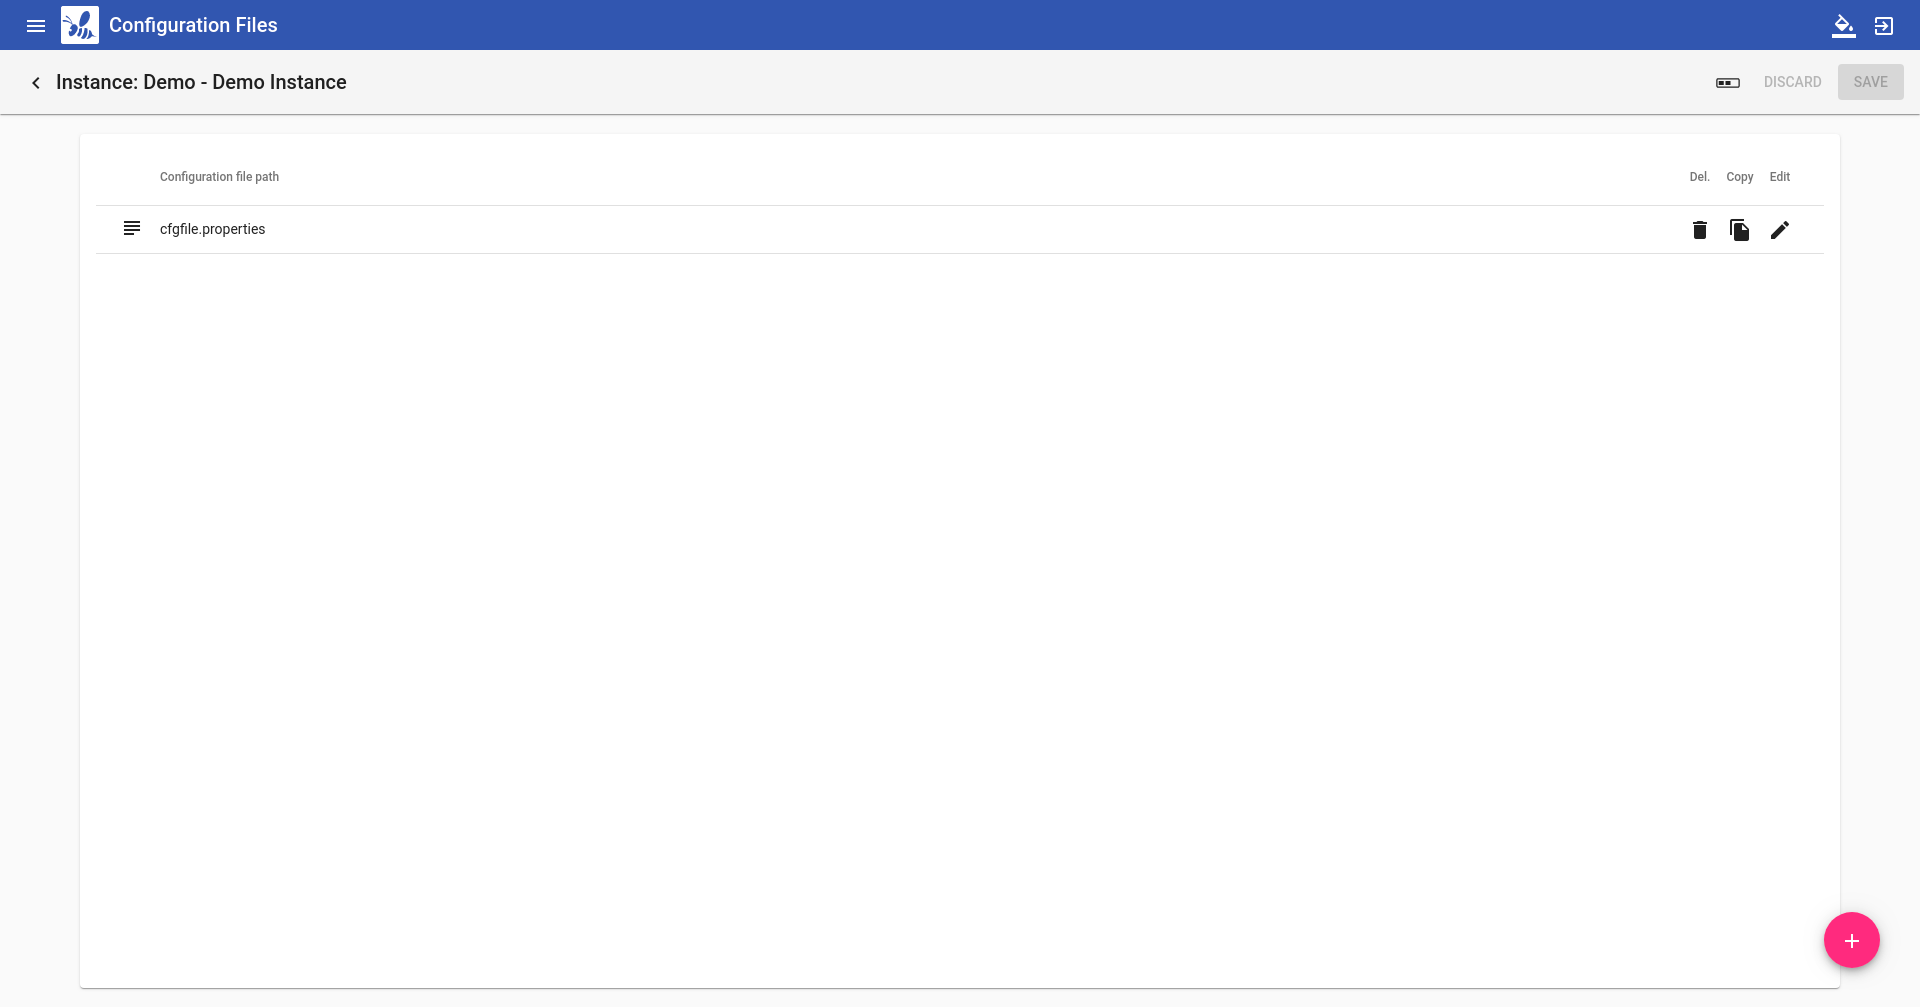
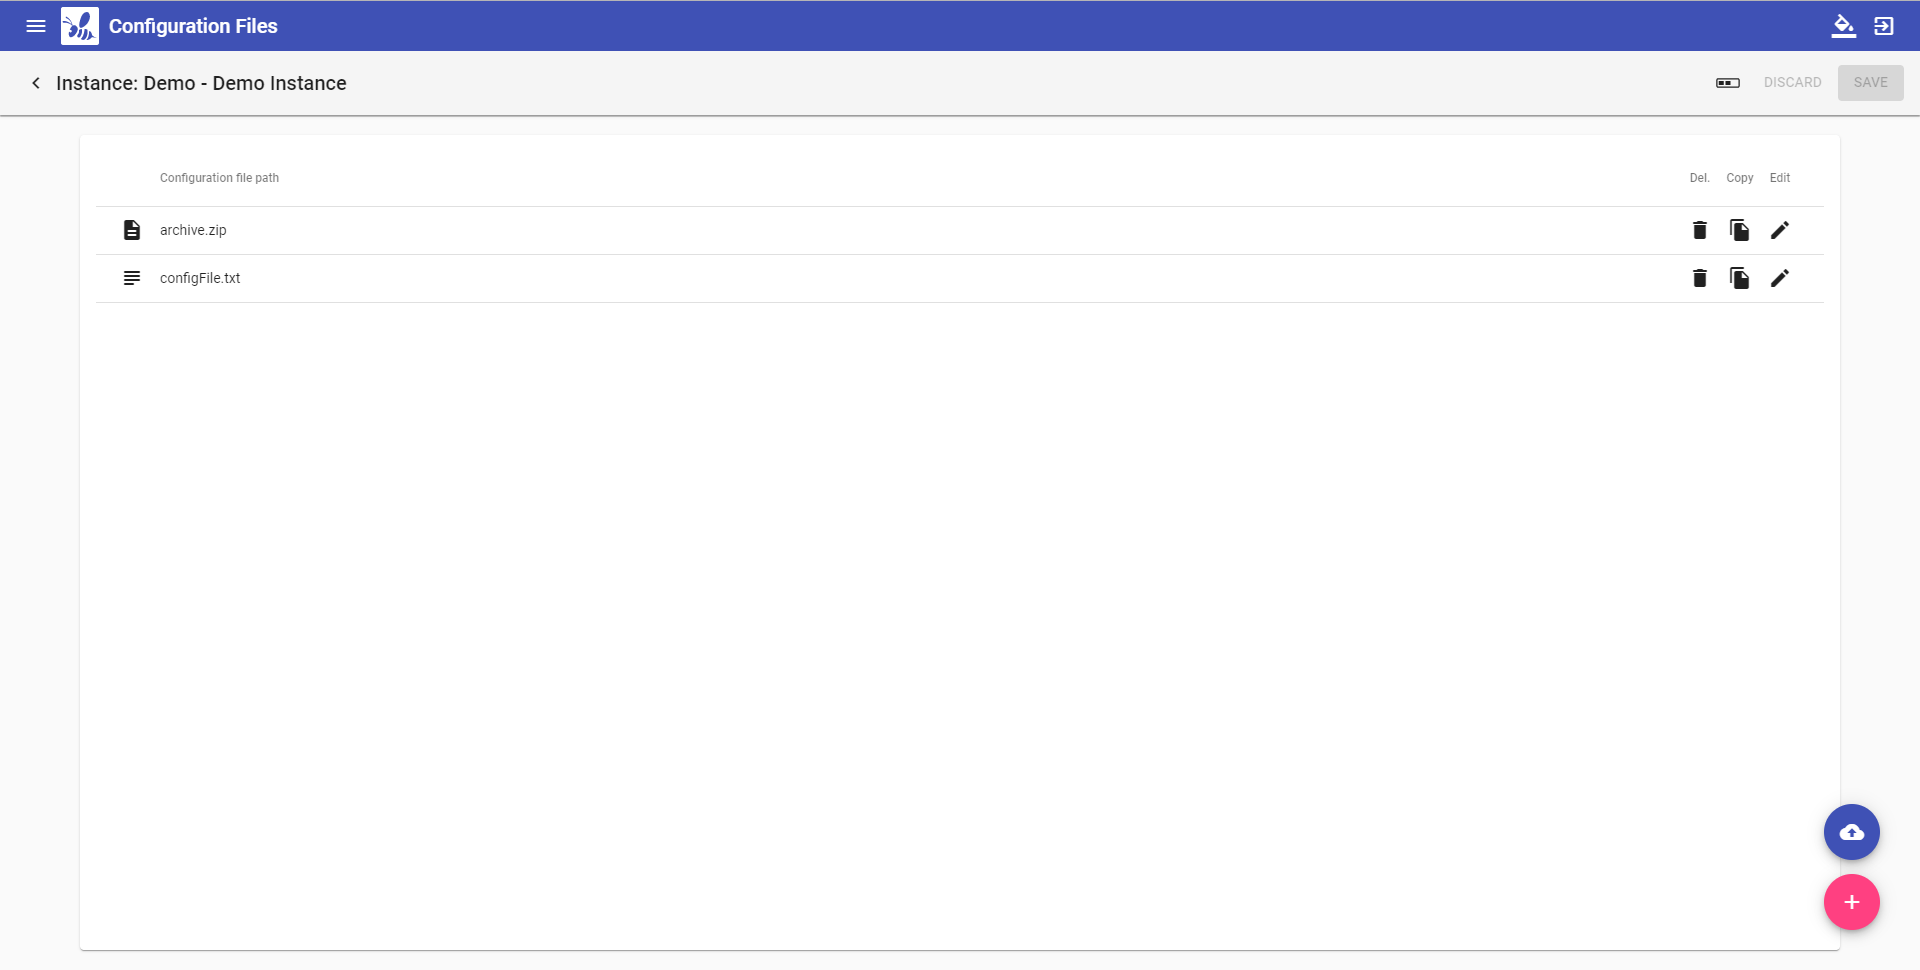
Update docs

diff --git a/user/index.html b/user/index.html
@@ -28,7 +28,7 @@
 <div id="header">
 <h1>BDeploy End User Documentation</h1>
 <div class="details">
-<span id="revnumber">version 1.3.0-SNAPSHOT</span>
+<span id="revnumber">version 1.3.0</span>
 </div>
 <div id="toc" class="toc2">
 <div id="toctitle">Table of Contents</div>
@@ -545,7 +545,7 @@ Clicking on the hamburger menu in the top-left corner provides access to the var
 <div class="sect2">
 <h3 id="_instance_group">Instance Group</h3>
 <div class="paragraph">
-<p>An instance group acts as logical container for actual <strong>Instances</strong>. It typically contains several <strong>Instances</strong> for different purposes (productive, test, development). Adding them to the same group provides a better overview which of them are belonging together. An empty page is displayed if no instance has been created.</p>
+<p>An <strong>Instance Group</strong> acts as logical container for actual <strong>Instances</strong>. It typically contains several <strong>Instances</strong> for different purposes (productive, test, development). Adding them to the same group provides a better overview which of them are belonging together. An empty page is displayed if no instance has been created.</p>
 </div>
 <div class="imageblock text-center">
 <div class="content">
@@ -553,7 +553,8 @@ Clicking on the hamburger menu in the top-left corner provides access to the var
 </div>
 </div>
 <div class="paragraph">
-<p>Use the <b class="button">+</b> button to create a new <strong>Instance Group</strong>.</p>
+<p>Use the <b class="button">+</b> button to create a new <strong>Instance Group</strong>.
+The <strong>Instance Group</strong> determines whether it is considered by the automatic cleanup job. If <em>Auto Delete</em> is enabled, the cleanup job will delete all <strong>Product Versions</strong> that are older than the oldest <strong>Product Version</strong> in use</p>
 </div>
 <div class="imageblock text-center">
 <div class="content">
@@ -653,6 +654,9 @@ On the BDeploy Releases page you will find some sample products for each release
 <h4 id="_create_new_instance">Create New Instance</h4>
 <div class="paragraph">
 <p>To create a new <strong>Instance</strong>, click the <b class="button">+</b> button at the bottom of the page. After giving the new <strong>Instance</strong> a name, purpose and description, the most important thing is to select the <strong>Product</strong> you want to deploy. The <em>tag</em> of the <strong>Product</strong> has to be chosen to determine the initial product version. It can be changed later at anytime (<em>up-</em> and <em>downgrade</em>). You will also have to provide a <em>target master</em>, which is the URL of the REST API provided by the <strong>BDeploy</strong> <strong>Minion</strong> that runs as <strong>Master</strong> on one of the target <strong>Nodes</strong>. In the current version of <strong>BDeploy</strong>, this is the official URL of the running <strong>BDeploy</strong> server. You will have to provide a <em>token</em>, which is the <em><a href="#_security">security token</a></em> generated by the <a href="#_bdeploy_cli"><code>bdeploy init</code></a> or the <a href="#_bdeploy_cli"><code>bdeploy token</code></a> commands on the <em>master</em>.</p>
+</div>
+<div class="paragraph">
+<p>The <strong>Instance</strong> determines whether it is considered by the automatic cleanup job. If <em>Auto Uninstall</em> is enabled, the cleanup job will uninstall all <strong>Instance Versions</strong> that are older than the activated and the previously activated <strong>Instance Version</strong>.</p>
 </div>
 <div class="imageblock text-center">
 <div class="content">
@@ -812,7 +816,67 @@ The <strong>Application</strong> defines in which order the parameters are passe
 </div>
 </div>
 <div class="paragraph">
-<p>The integrated editor provides syntax highlighting and rudimentary syntax checking for some basic file types (yaml, json, xml). Displayed problems are only to be seen as help and never interfere with the process, e.g. by preventing the saving of a file.</p>
+<p>New configuration files can be be created using the <b class="button">+</b> button. This will open the integrated editor.
+Additionally to that existing files can be uploaded using the provided <b class="button">Upload</b> button.</p>
+</div>
+<div class="sect4">
+<h5 id="_file_types">File types</h5>
+<div class="paragraph">
+<p>The type of a configuration file is automatically detected and visualized in the dialog. The following table shows the supported file types and how they are treated:</p>
+</div>
+<table class="tableblock frame-all grid-all stretch">
+<colgroup>
+<col style="width: 8.3333%;">
+<col style="width: 25%;">
+<col style="width: 25%;">
+<col style="width: 25%;">
+<col style="width: 16.6667%;">
+</colgroup>
+<thead>
+<tr>
+<th class="tableblock halign-center valign-top">Type</th>
+<th class="tableblock halign-left valign-top">Online Editing</th>
+<th class="tableblock halign-left valign-top">Variable Expansion</th>
+<th class="tableblock halign-left valign-top">Encoding</th>
+<th class="tableblock halign-left valign-top">Samples</th>
+</tr>
+</thead>
+<tbody>
+<tr>
+<td class="tableblock halign-center valign-top"><div class="content"><div class="imageblock text-center">
+<div class="content">
+<img src="images/BDeploy_CfgFiles_Text.png" alt="BDeploy CfgFiles Text" width="32">
+</div>
+</div>
+<div class="paragraph">
+<p>Text</p>
+</div></div></td>
+<td class="tableblock halign-left valign-top"><p class="tableblock"><strong>Can</strong> be edited online using the integrated editor.</p></td>
+<td class="tableblock halign-left valign-top"><p class="tableblock">Variables used in the file content are replaced. See <a href="#_variable_expansion">Variable Expansion</a> for more details.</p></td>
+<td class="tableblock halign-left valign-top"><p class="tableblock">Files are always written using UTF-8 encoding.</p></td>
+<td class="tableblock halign-left valign-top"><p class="tableblock">txt, log, xml, csv</p></td>
+</tr>
+<tr>
+<td class="tableblock halign-center valign-top"><div class="content"><div class="imageblock text-center">
+<div class="content">
+<img src="images/BDeploy_CfgFiles_Binary.png" alt="BDeploy CfgFiles Binary" width="32">
+</div>
+</div>
+<div class="paragraph">
+<p>Binary</p>
+</div></div></td>
+<td class="tableblock halign-left valign-top"><p class="tableblock"><strong>Cannot</strong> be edited online.</p></td>
+<td class="tableblock halign-left valign-top"><p class="tableblock">Not available.</p></td>
+<td class="tableblock halign-left valign-top"><p class="tableblock">Files are written as they are without any modifications.</p></td>
+<td class="tableblock halign-left valign-top"><p class="tableblock">zip, pdf</p></td>
+</tr>
+</tbody>
+</table>
+</div>
+<div class="sect4">
+<h5 id="_editor">Editor</h5>
+<div class="paragraph">
+<p>The integrated editor provides syntax highlighting and rudimentary syntax checking for some basic file types (yaml, json, xml). Displayed problems are only to be seen as help and never interfere with the process, e.g. by preventing the saving of a file. Only files of type <strong>Text</strong> can be edited with the provided editor. <strong>Binary</strong> files can only be changed by uploading a new file with the same name.</p>
 </div>
 <div class="imageblock text-center">
 <div class="content">
@@ -835,6 +899,7 @@ Changes done in configuration files must be <strong>Saved</strong> and they resu
 </td>
 </tr>
 </table>
+</div>
 </div>
 </div>
 <div class="sect3">
@@ -2404,7 +2469,44 @@ The <strong>BDeploy</strong> binary distribution also contains the <strong>BDepl
 <div class="sect3">
 <h4 id="_manual_cleanup">Manual Cleanup</h4>
 <div class="paragraph">
-<p>You can use the <strong>Manual Cleanup</strong> page from the main menu to trigger a manual cleanup of stuff that is not needed any more. There is no need to trigger this manually as a job is scheduled that performs the exact same operation every night. This dialog can be used to immediately trigger a cleanup and to reviewing of the actions performed <em>before</em> doing so.</p>
+<p>You can use the <strong>Manual Cleanup</strong> page from the main menu to trigger a manual cleanup of stuff that is not needed any more. There is no need to trigger this manually as a job is scheduled that performs the exact same operation every night:</p>
+</div>
+<table class="tableblock frame-all grid-all stretch">
+<colgroup>
+<col style="width: 40%;">
+<col style="width: 60%;">
+</colgroup>
+<thead>
+<tr>
+<th class="tableblock halign-left valign-top">Target</th>
+<th class="tableblock halign-left valign-top">Description</th>
+</tr>
+</thead>
+<tbody>
+<tr>
+<td class="tableblock halign-left valign-top"><p class="tableblock"><strong>Instances</strong> with <em>Auto Uninstall</em> enabled</p></td>
+<td class="tableblock halign-left valign-top"><p class="tableblock">Uninstall <strong>Instance Versions</strong> that are older than the activated and the previously activated <strong>Instance Version</strong>.</p></td>
+</tr>
+<tr>
+<td class="tableblock halign-left valign-top"><p class="tableblock"><strong>Instance Groups</strong> with <em>Auto Delete</em> enabled</p></td>
+<td class="tableblock halign-left valign-top"><p class="tableblock">Delete <strong>Product Versions</strong> that are older than the oldest <strong>Product Version</strong> in use by an installed <strong>Instance Version</strong></p></td>
+</tr>
+<tr>
+<td class="tableblock halign-left valign-top"><p class="tableblock">Slave</p></td>
+<td class="tableblock halign-left valign-top"><p class="tableblock">Delete <strong>Manifests</strong> that are not known by the master</p></td>
+</tr>
+<tr>
+<td class="tableblock halign-left valign-top"><p class="tableblock">Slave</p></td>
+<td class="tableblock halign-left valign-top"><p class="tableblock">Keep two <strong>BDeploy Launcher</strong> versions, delete all older versions.</p></td>
+</tr>
+<tr>
+<td class="tableblock halign-left valign-top"><p class="tableblock">Slave</p></td>
+<td class="tableblock halign-left valign-top"><p class="tableblock">Remove unused directories and files in the deployment (including pooled applications), download and temp directory.</p></td>
+</tr>
+</tbody>
+</table>
+<div class="paragraph">
+<p>The dialog can be used to immediately trigger a cleanup and to reviewing of the actions performed <em>before</em> doing so.</p>
 </div>
 <div class="imageblock text-center">
 <div class="content">
@@ -2412,7 +2514,7 @@ The <strong>BDeploy</strong> binary distribution also contains the <strong>BDepl
 </div>
 </div>
 <div class="paragraph">
-<p>Press the <b class="button">Calculate Cleanup Actions</b> button to perform cleanup calculation. The result will be a list of actions to be performed on each connected slave.</p>
+<p>Press the <b class="button">Calculate Cleanup Actions</b> button to perform cleanup calculation. The result will be groups of actions to be performed on <strong>Instance Groups</strong> or <strong>Slaves</strong>. The result contains only <strong>Instance Groups</strong> and <strong>Slaves</strong> for which actions are actually calculated, i.e. empty lists are hidden. If no action is calculated at all, a corresponding message is displayed.</p>
 </div>
 <div class="imageblock text-center">
 <div class="content">
@@ -2821,8 +2923,8 @@ Current swapping is possible only manually, proper CLI support pending.
 </div>
 <div id="footer">
 <div id="footer-text">
-Version 1.3.0-SNAPSHOT<br>
-Last updated 2019-08-23 12:33:23 +0200
+Version 1.3.0<br>
+Last updated 2019-10-22 10:31:11 +0200
 </div>
 </div>
 </body>
